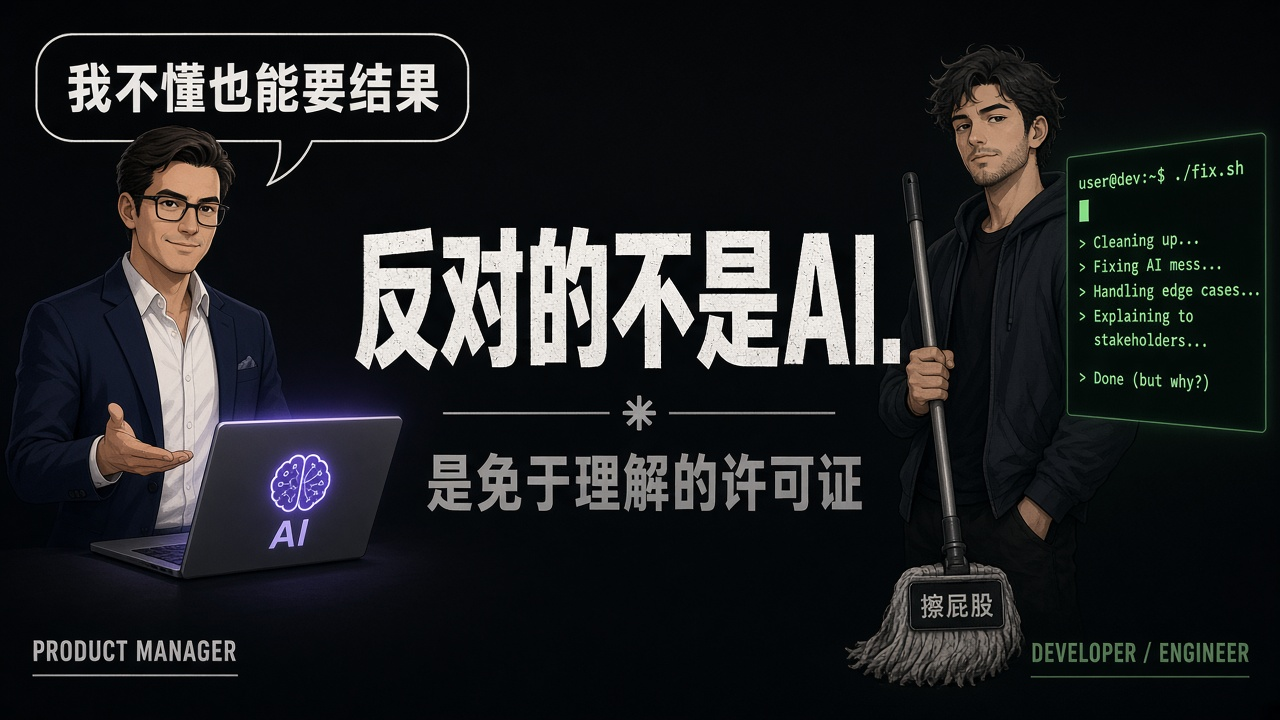
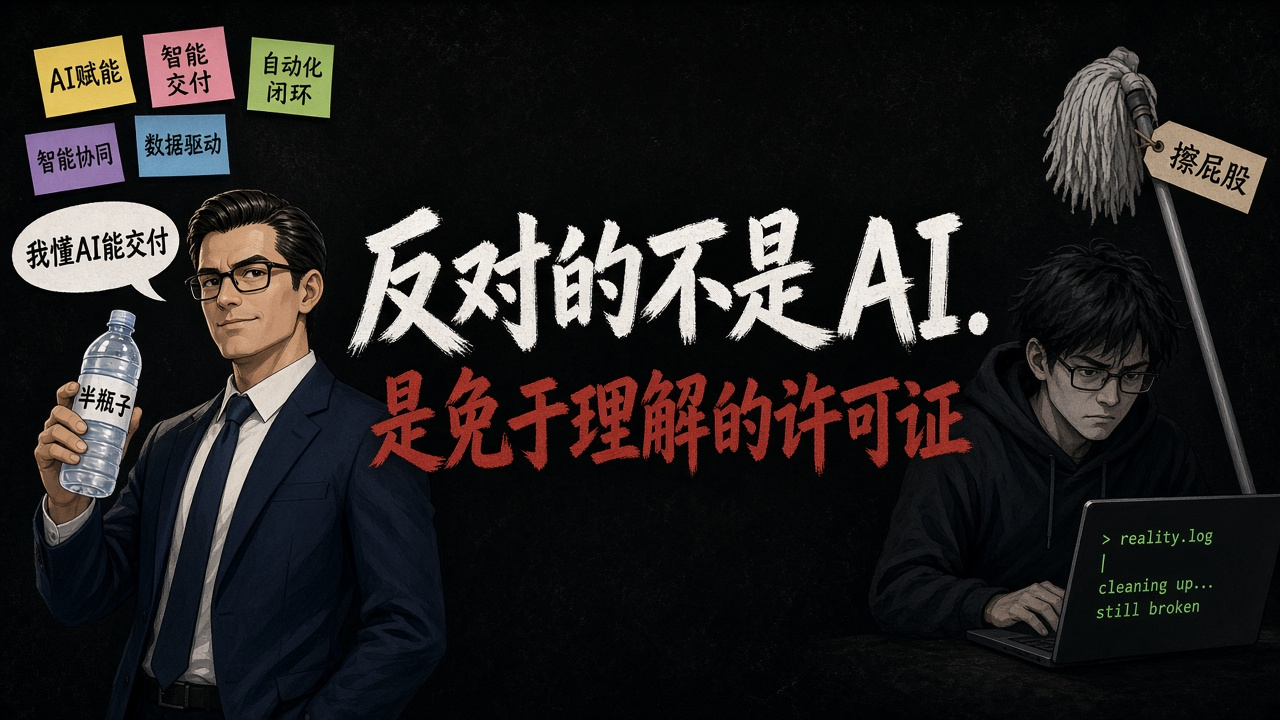
Revise gate satire: shallow half-full PM on left
Overwrite gate-ai-satire-simple.jpg — left figure reads as
surface/half-bottle PM, not “我不懂”. Align image alt text.

diff --git a/src/gate.js b/src/gate.js
@@ -146,7 +146,7 @@ export function renderGate(root, { onSuccess }) {
             <img
               class="gate-satire-image"
               src="${import.meta.env.BASE_URL}notes-assets/gate/gate-ai-satire-simple.jpg"
-              alt="讽刺插画：外行用 AI 要结果，开发者擦屁股"
+              alt="讽刺插画：半瓶子 PM 表面用 AI 要结果，开发者擦屁股"
               width="1280"
               height="720"
               decoding="async"
